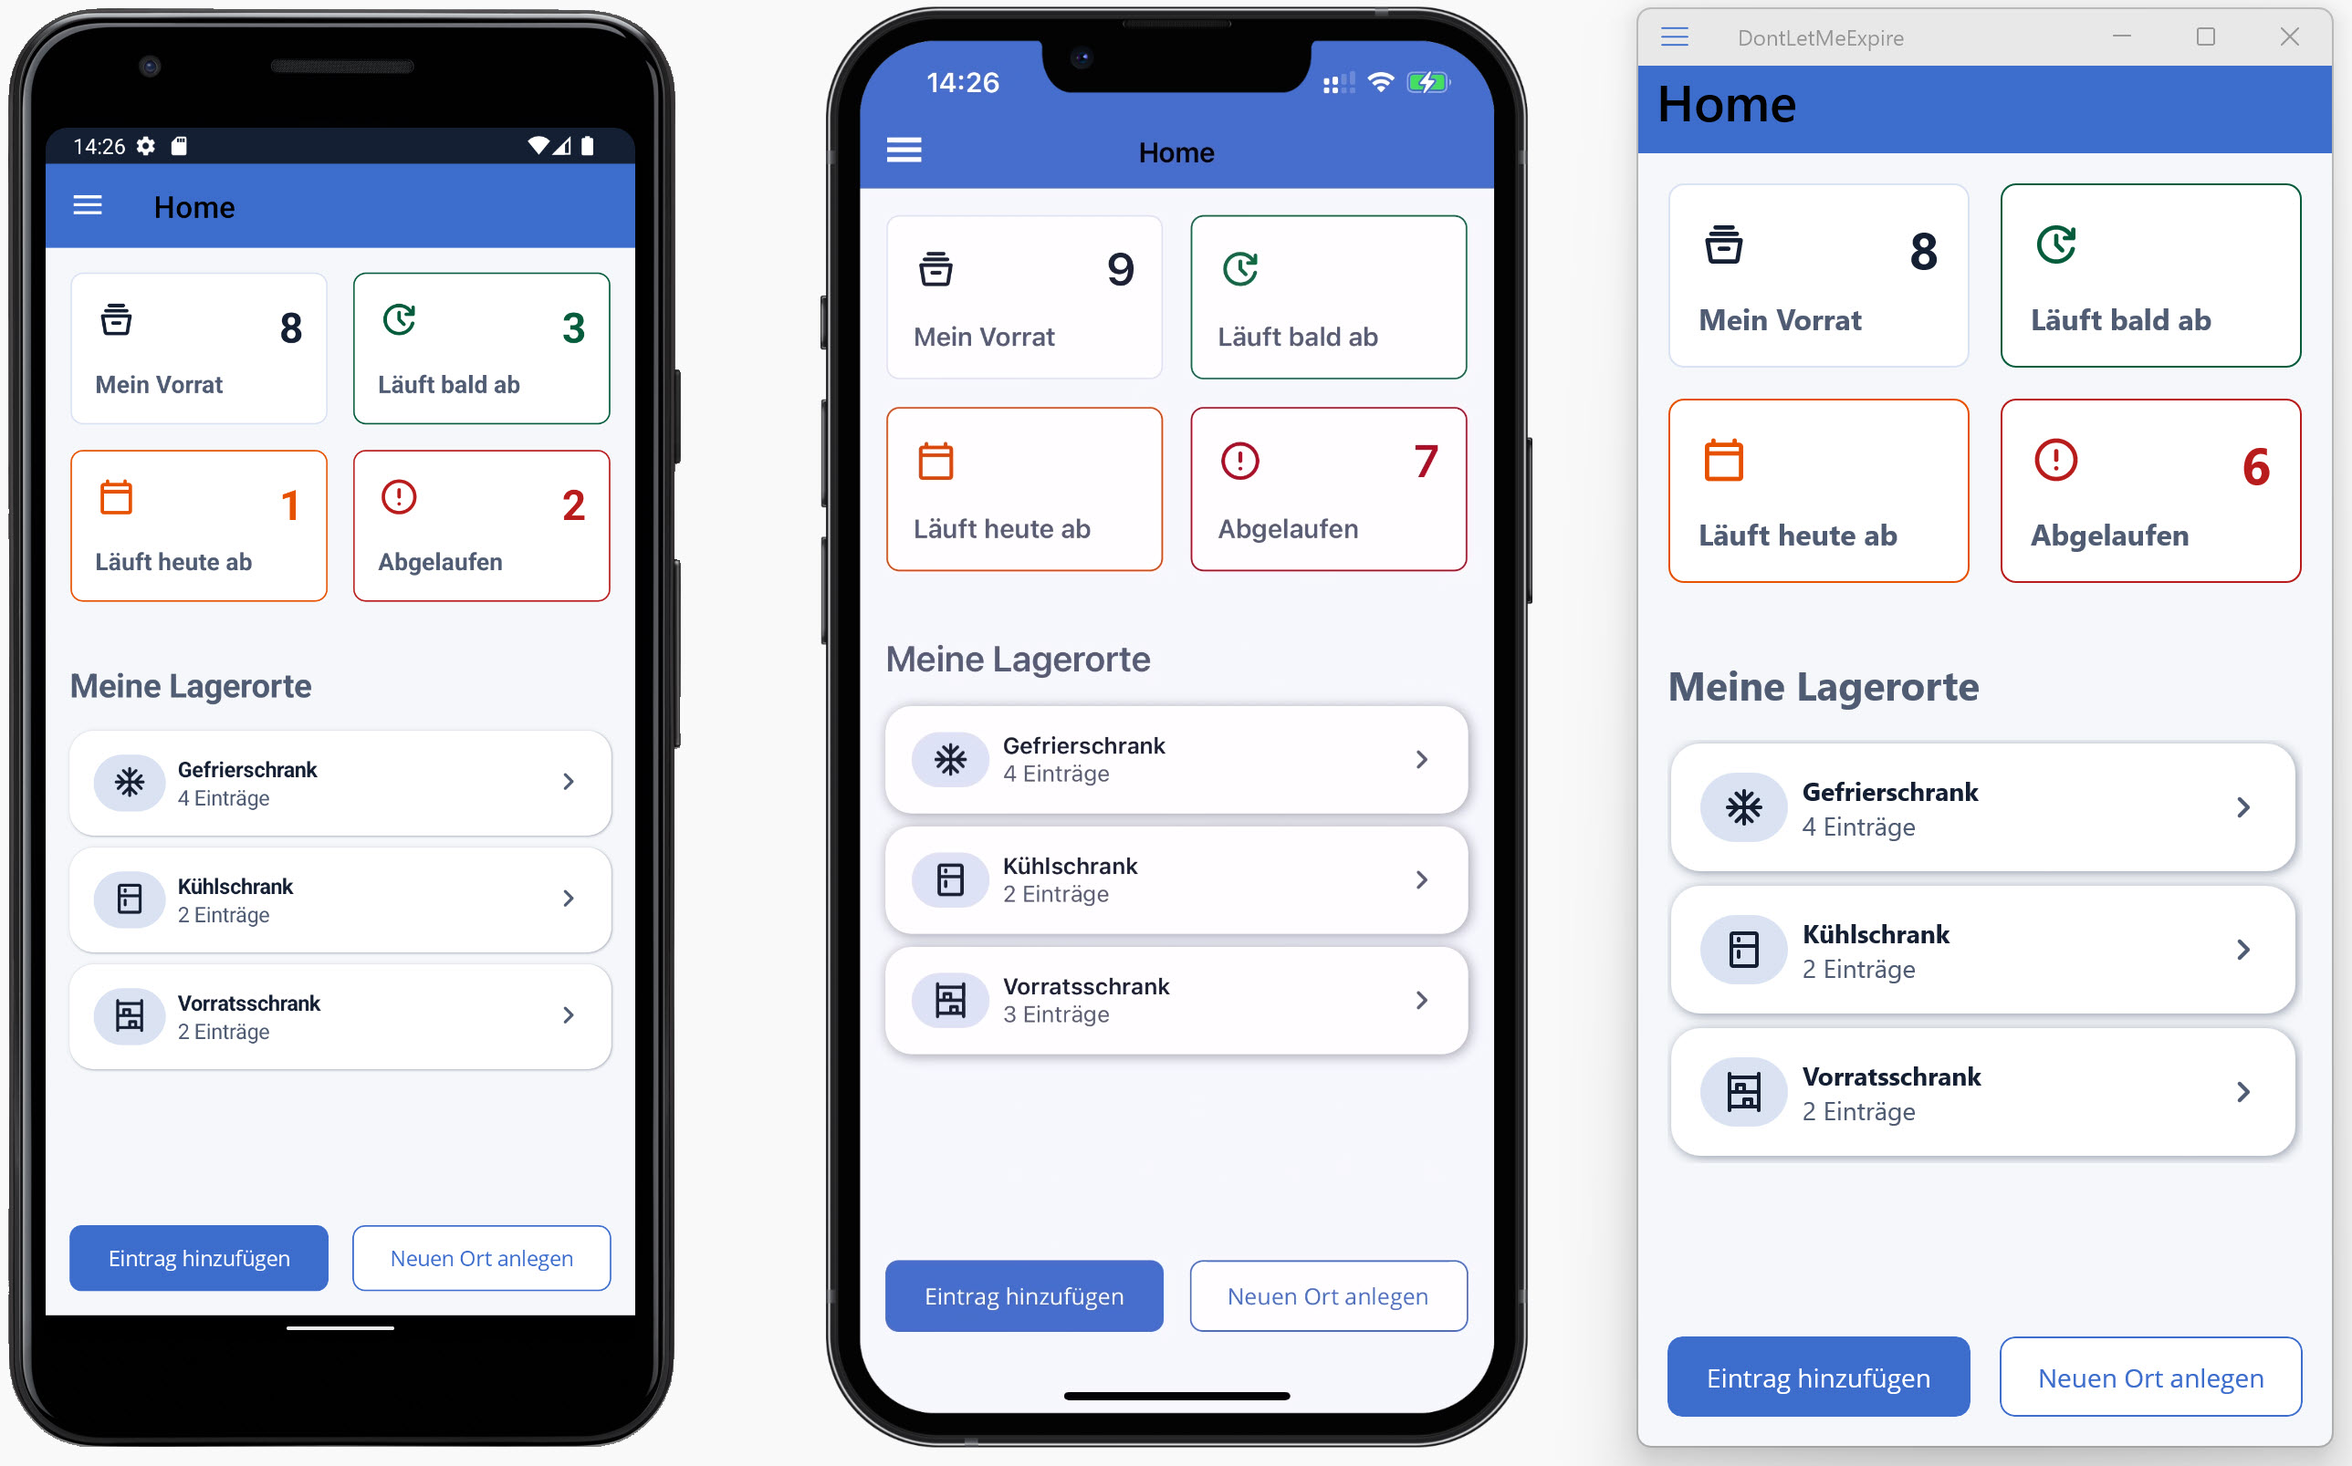
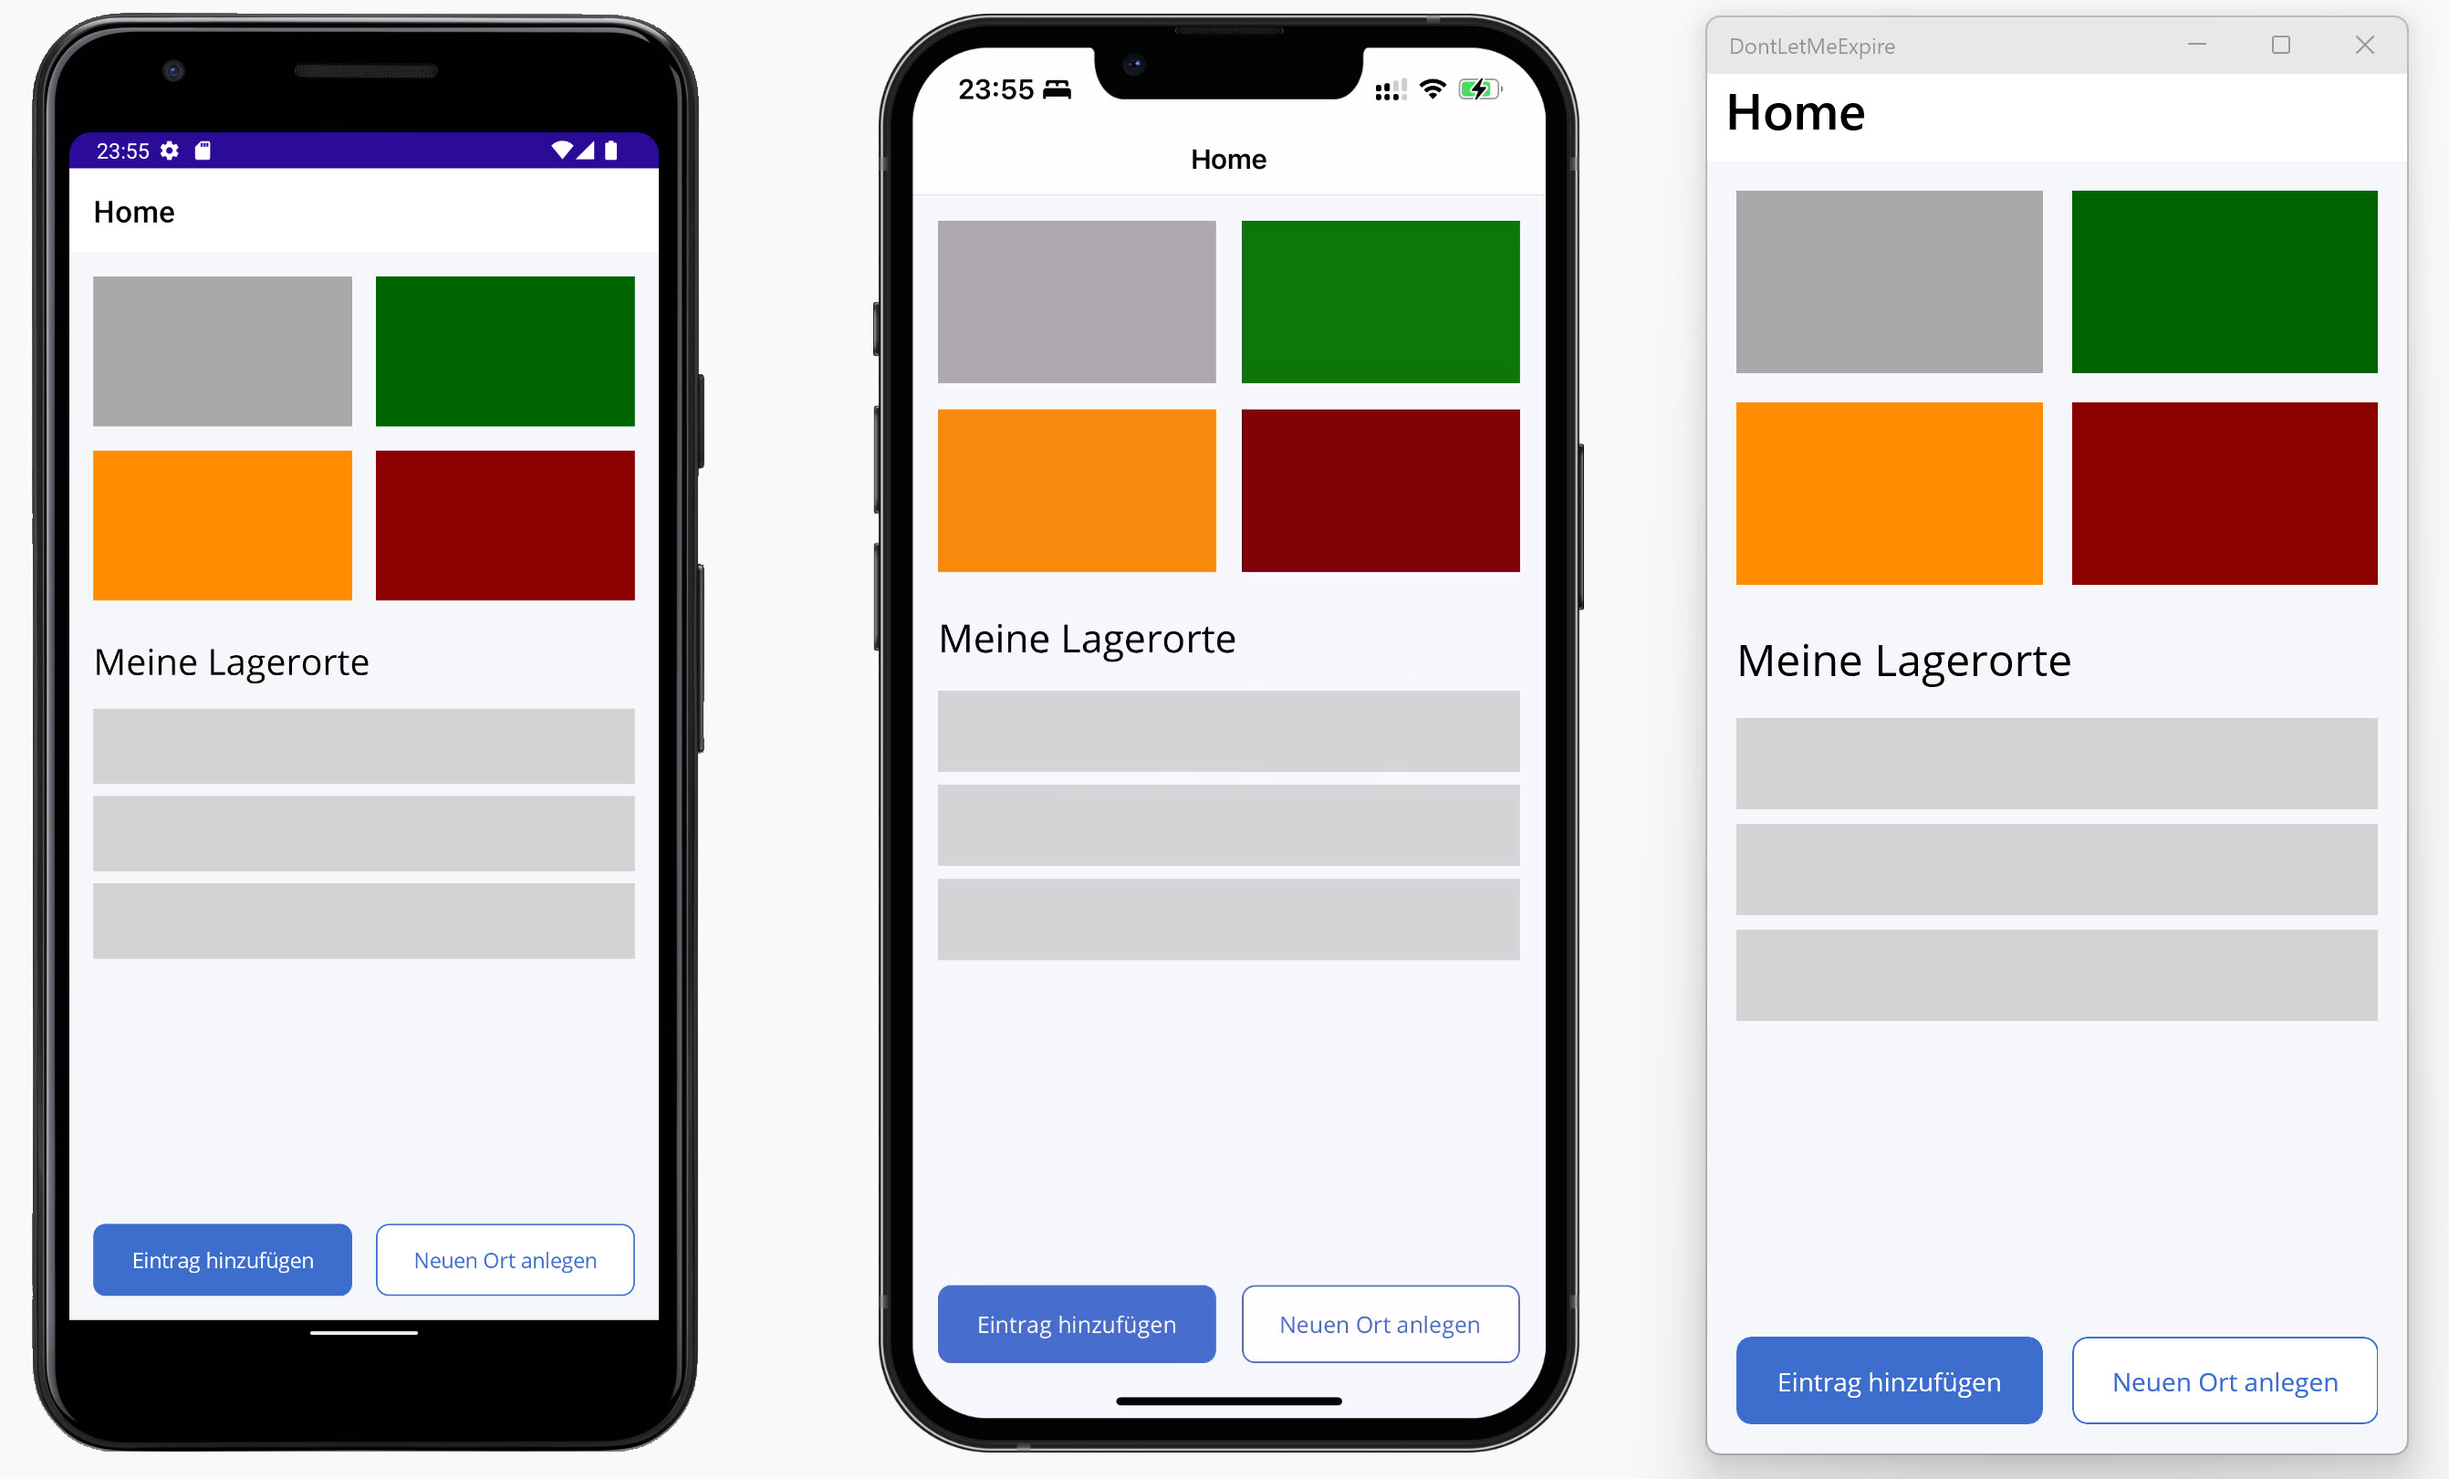
03: Beginn

diff --git a/lab.md b/lab.md
@@ -1,16 +1,28 @@
-# Übung 2: Layout-Skizze
+# Übung 3: Implementieren Sie das Grundlayout
 
-- Überlegen Sie sich, mit welchen **LayoutContainern** das Grundlayout der Startseite der Demo-App *Don't let me Expire* umgesetzt werden könnte
-- Erstellen Sie eine Skizze dazu
+- Öffnen Sie ihr Projekt `DontLetMeExpire`
+- Löschen Sie den Inhalt der Datei `MainPage.xaml`, so dass nur noch foglender Code vorhanden ist
+```xml
+<?xml version="1.0" encoding="utf-8" ?>
+<ContentPage xmlns="http://schemas.microsoft.com/dotnet/2021/maui"
+             xmlns:x="http://schemas.microsoft.com/winfx/2009/xaml"
+             x:Class="DontLetMeExpire.MainPage">
 
-[Zur Lösung](#lösung)
-
-Hier das gewünschte Layout
+</ContentPage>
+```
+- Löschen Sie im CodeBehind die Variable `counter` und die Methode `CounterClicked`, so dass nur noch folgender Code vorhanden ist:
+```csharp
+namespace DontLetMeExpire
+{
+  public partial class MainPage : ContentPage
+  {
+    public MainPage()
+    {
+      InitializeComponent();
+    }
+  }
+}
+```
+- Legen Sie das gezeigte Layout in der MainPage an. Nutzen Sie nur LayoutContainer, `BoxView`-Elemente, `Labels` und `Buttons`
 
 ![Skizze des gewünschten Layouts](Images/lab_b.jpg)
-
-## Lösung
-
-Das gewünschte Layout kann mit einen `Grid` mit fünf Zeilen und zwei Spalten umgesetzt werden. Innerhalb des Grids wird ein `VerticalStackLayout` genutzt, um die Liste der Lagerorte darzustellen.
-
-![Skizze der Lösung](Images/lab_e.jpg)
